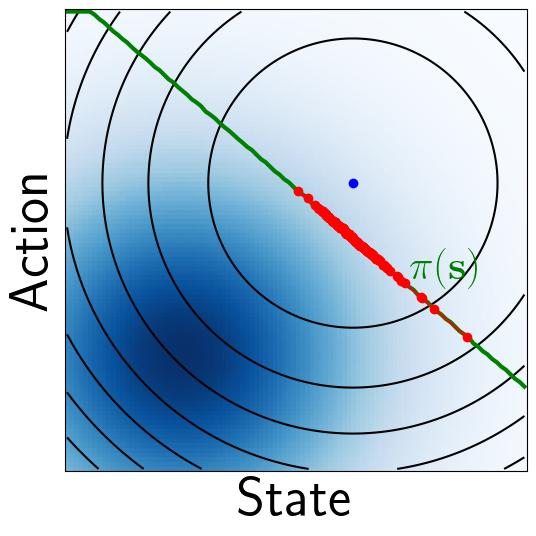
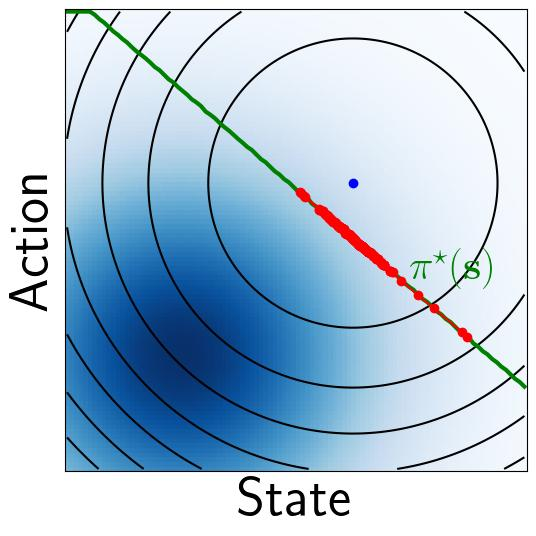
Update OOD

diff --git a/Safety/Codes/Epistemic/OOD_Policy2.py b/Safety/Codes/Epistemic/OOD_Policy2.py
@@ -142,11 +142,11 @@ for case in ['Map','Star','OOD']:
         
         if case == 'OOD':
             ax1.plot(spolplot,apolplot['OOD'],color='m',linewidth=3)
-            ax1.text(.5,Policy(.5,Pi['OOD']),r'$\bf\pi_{OOD}(s)$',fontsize=30,verticalalignment='bottom',horizontalalignment='left',color='m')
+            ax1.text(.5,Policy(.5,Pi['OOD']),r'$\bf\pi^{\tiny OOD}(s)$',fontsize=30,verticalalignment='bottom',horizontalalignment='left',color='m')
        
         ax1.plot(SA[0,:],SA[1,:],marker='o',color='r')
         
-        ax1.text(.5,Policy(.5,Pi['Star']),r'$\bf\pi(s)$',fontsize=30,verticalalignment='bottom',horizontalalignment='left',color='g')
+        ax1.text(.5,Policy(.5,Pi['Star']),r'$\bf\pi^\star(s)$',fontsize=30,verticalalignment='bottom',horizontalalignment='left',color='g')
 
         plt.show(block=False)
         
